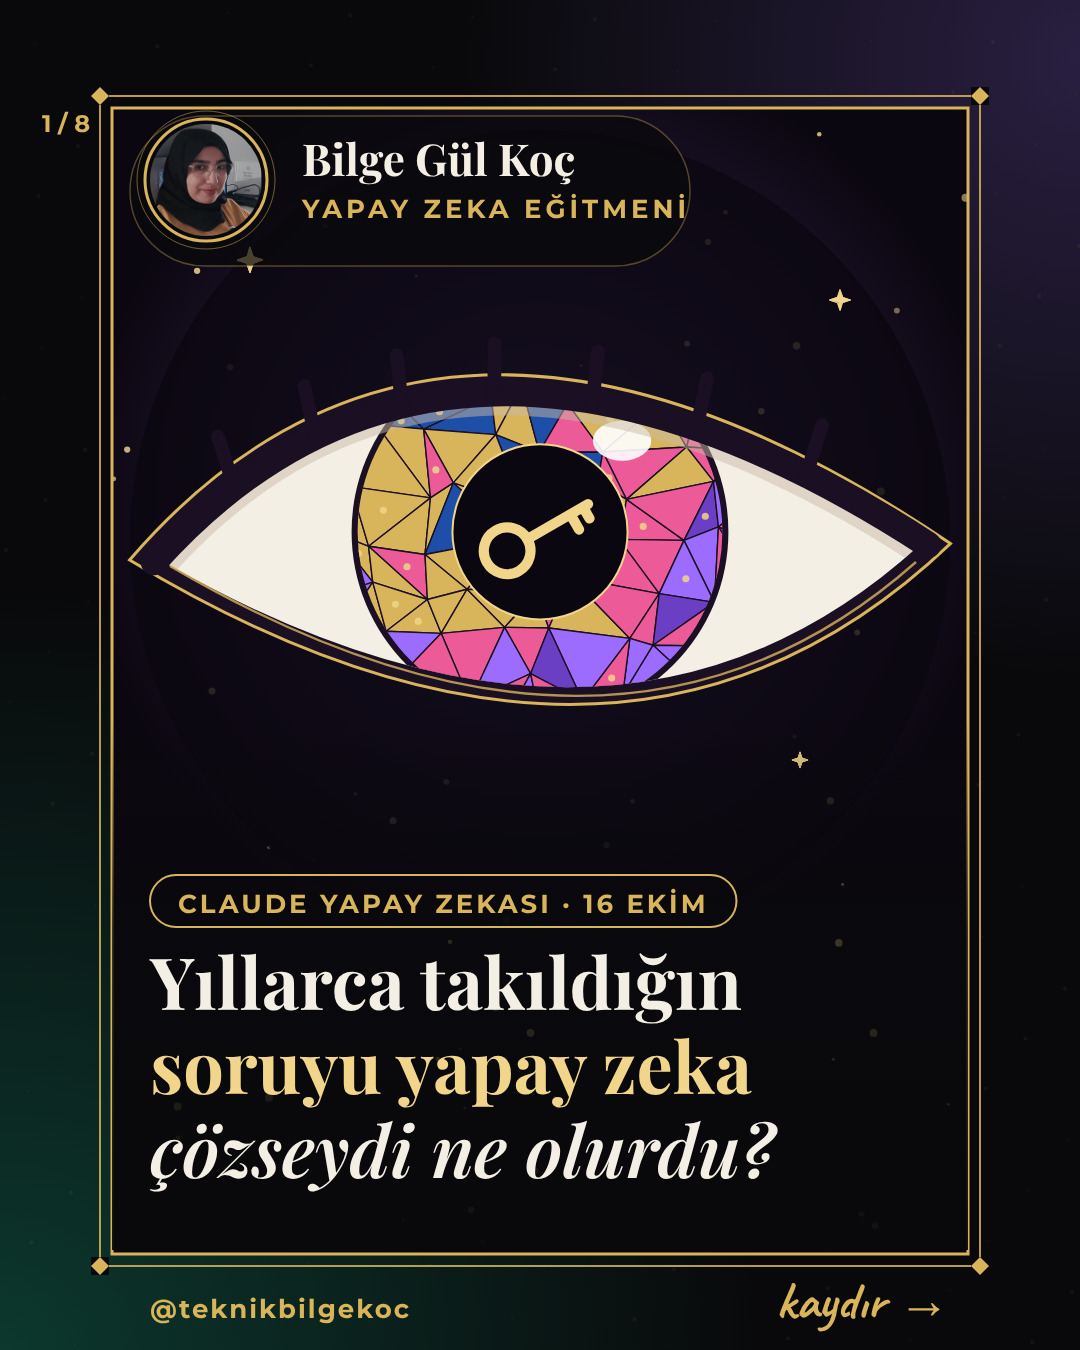
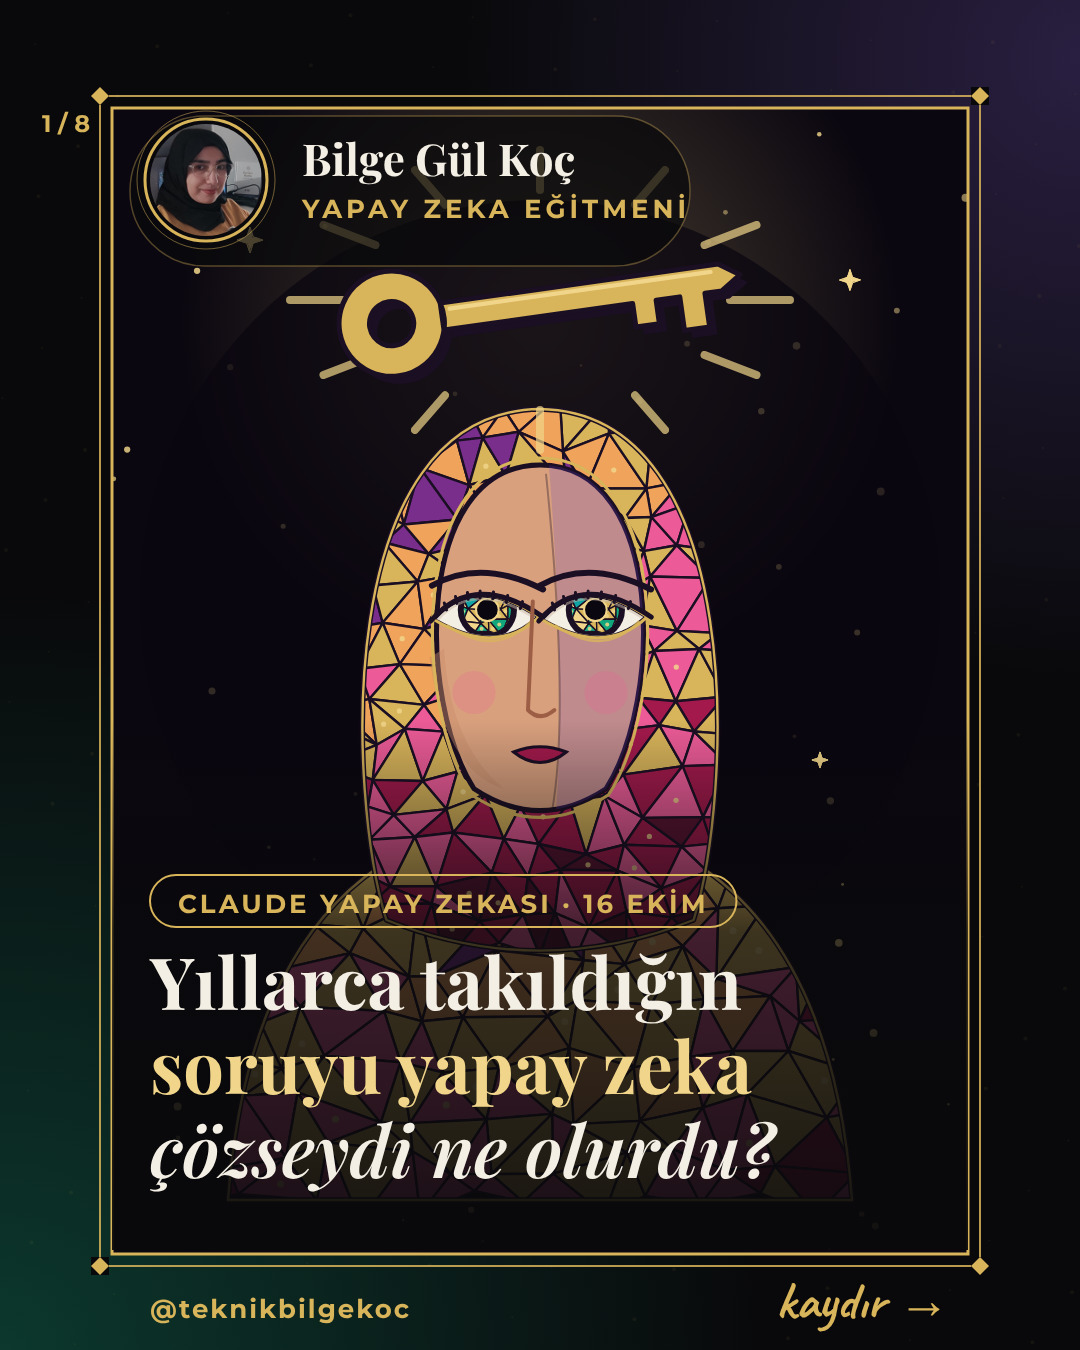
17 Ekim kapağı: tek göz yerine başörtülü yüz + anahtar; README'ye yasak simge kuralı
Claude-Session: https://claude.ai/code/session_01JFwWeH33W4M7iAanRYpxoH

diff --git a/2026-10-17/s1.js b/2026-10-17/s1.js
@@ -1,17 +1,20 @@
-// 17 Ekim 2026 kapak — metafor: dev Zeid gözü, gözbebeğinde parlayan minik altın anahtar (yıllardır kilitli soruyu "gören" yapay zeka); ametist iris, sakin gece zemin.
+// 17 Ekim 2026 kapak — metafor: başörtülü Zeid yüzü yukarı bakıyor, başının üstünde parlayan altın anahtar ("buldum!" anı); mozaik yakut örtü, sakin gece zemin.
+// Not (Bilge, 17 Ekim 2026): tek göz simgesi kullanılmaz. Açık kalkık avuç da (nazar/el simgesi çağrışımı) kullanılmadı.
 TOHUM = 20261017;
+const ANAHTAR = 'M-200 -62 a62 62 0 1 0 0.1 0 Z M-200 -26 a26 26 0 1 1 -0.1 0 Z M-140 -16 H190 L214 0 L190 16 H170 V56 H140 V16 H112 V44 H84 V16 H-140 Z';
 async function build() {
   await fontsReady(); paper('purple'); footer('1 / 8');
   sanatSahne(112, 108, 856, 1146, { cerceve: 'tam', duzen: 'gece', palet: 'ametist', merkez: [540, 500] }, () => {
-    glow(540, 500, 460, C.purple, 0.35);
-    el('circle', { cx: 540, cy: 540, r: 410, fill: '#0B0710', opacity: 0.8 });
-    zeidGoz(540, 560, 760, { iris: 'ametist', bakis: [0, 0.05], kas: false,
-      yansima: (x, y, r, gp) => {
-        const k = r / 60, G = g({ transform: `translate(${x} ${y}) scale(${k}) rotate(-30)` }, gp);
-        el('circle', { cx: -26, cy: 0, r: 16, fill: 'none', stroke: C.goldHi, 'stroke-width': 7 }, G);
-        el('path', { d: 'M-10 0 H38 M24 0 v12 M34 0 v9', fill: 'none', stroke: C.goldHi, 'stroke-width': 7, 'stroke-linecap': 'round' }, G);
-      } });
-    [[250, 260], [840, 300], [800, 760]].forEach(([x, y], i) => star(x, y, 0.8 - i * 0.15, C.goldHi));
+    glow(540, 320, 360, C.goldHi, 0.28);
+    el('circle', { cx: 540, cy: 600, r: 400, fill: '#0B0710', opacity: 0.75 });
+    zeidYuz(540, 640, 1.0, { bas: 'basortu', palet: 'yakut', ten: '#D9A07E', bakis: [0.1, -0.9], gulumse: true });
+    // ışık huzmeleri
+    for (let i = 0; i < 12; i++) { const a = i * Math.PI / 6; el('path', { d: `M${540 + 190 * Math.cos(a)} ${300 + 110 * Math.sin(a)} L${540 + 250 * Math.cos(a)} ${300 + 150 * Math.sin(a)}`, stroke: C.goldHi, 'stroke-width': 8, 'stroke-linecap': 'round', opacity: 0.7 }); }
+    const G = g({ transform: 'translate(560 300) rotate(-8) scale(0.85)' });
+    el('path', { d: ANAHTAR, fill: OUT, 'fill-rule': 'evenodd', transform: 'translate(8 10)' }, G);
+    el('path', { d: ANAHTAR, fill: C.gold, 'fill-rule': 'evenodd', stroke: OUT, 'stroke-width': 6, 'stroke-linejoin': 'round' }, G);
+    el('path', { d: 'M-130 -8 H180', stroke: C.goldHi, 'stroke-width': 5, 'stroke-linecap': 'round' }, G);
+    [[250, 240], [850, 280], [820, 760]].forEach(([x, y], i) => star(x, y, 0.8 - i * 0.15, C.goldHi));
   });
   perde(720, 1250);
   rozetZemin(); profil(150, 124, 112);

diff --git a/motor/README.md b/motor/README.md
@@ -7,6 +7,7 @@ Sorun: her gün aynı karikatür yüz (`sahneTek` + `kadin()`) çizildi; çeşit
 - METAFOR PROTOKOLÜ (her gün): (1) Haberin özünü tek cümleyle yaz. (2) Bu öz için en az 5 görsel metafor yaz (ör. güvenlik → izleyen dev göz, anahtar deliğinden bakan robot, mozaik kalkan; hafıza → gözleri kapalı hatırlayan yüz, kum saati, zarf taşıyan kuş). (3) "Başlığı kapatınca görsel konuyu anlatıyor mu?" testini geçen, en şaşırtıcı ve en somut olanı seç. (4) `kapak-gecmisi.md` son 7 satırla kıyasla: ana figür, düzen, çerçeve, palet ÜÇÜNDEN fazlası aynı olamaz; ana figür (göz/yüz/el/nesne/hayvan) art arda iki gün aynı olamaz. (5) Gerekirse yeni nesneyi s1.js içinde SVG yoluyla çiz ve `mozaik()` ile doldur (yeni metafor serbest; araç listesi sınır değildir).
 - KAPAK SADELİĞİ (Bilge, 15 Ekim 2026; 15 Ekim Grok kapağı karışık bulundu: mozaik zemin + mozaik telefon): (1) Zemin ve figür aynı anda mozaik olamaz. Figür `mozaik()` ile dolduruluyorsa `sanatSahne` zemini sakin olur (düz koyu ya da tek ışıma; `kaleydoskop()` halkası çizme ya da opaklığı en çok 0.08). (2) Figür zeminden belirgin ayrılır: kalın koyu kontur + figürün arkasında koyu yuvarlak alan. (3) Figür üzerinde ikinci bir sembol (madalyon, robot yüzü) yok; tek figür, tek fikir. (4) Ses dalgası, ışın gibi süsler en çok 2 renk. (5) TEST: kapağı küçültüp telefon ekranında görüntüle (ör. 270 px genişlik); figür ne olduğu hemen seçilmiyorsa sadeleştir.
 - GERÇEK ÜRÜN GÖRSELİ (Bilge onayı, 16 Ekim 2026): Haber somut bir ürünle (cihaz, uygulama ekranı) ilgiliyse "NE DEĞİŞTİ?" ya da "NASIL ÇALIŞIYOR?" slaytına ürünün gerçek görseli konur; okur ürünü gözünde canlandırabilmeli. KURALLAR: (1) Yalnızca şirketin RESMİ duyuru/basın sayfasından ya da basın kitinden (ör. aboutamazon.com, anthropic.com/news, openai.com, blog.google). Haber sitesi (TechCrunch, Getty vb.), sosyal medya, Google Görseller YASAK. (2) İnsan yüzü içeren görsel kullanılmaz; yalnızca ürün ya da ekran. (3) Kapakta KULLANILMAZ; kapak her zaman özgün çizimdir. Karusel başına en çok 2 slaytta. (4) `lib-koyu.js` `urunGorsel(href, x, y, w, h, 'Görsel: <Şirket>', { kirp: 'xMidYMid meet' })` ile, açık zeminli çerçevede; kaynak yazısı ZORUNLU. Görseli `convert` ile ürüne yakın kırp, motor/ klasörüne `urun.jpg` olarak koy, günün klasörüne de kopyala. (5) Görselin indirildiği adresi rapor.md'ye yaz. (6) Uygun resmi görsel yoksa ürünü resmi fotoğrafa bakarak kendi stilimizle çiz; asla başka kaynaktan alma. Örnek: `../2026-10-16-deneme/s3.js`.
+- YASAK SİMGELER (Bilge, 17 Ekim 2026): TEK GÖZ simgesi (tek başına dev göz, `zeidGoz()` ana figür olarak) KULLANILMAZ; İslami çevrelerde şeytanla (deccal) eşleştiriliyor. Göz yalnızca bir yüzün içinde, iki göz olarak çizilir. Aynı hassasiyetle, kalkık açık avuç (nazar/el simgesi çağrışımı) da ana figür yapılmaz.
 - Kompozisyon: tek ana figür, çerçevenin üst %60'ını doldurur (y≈150–820), altta perde + etiket + 3 satır başlık (mevcut kural). Rozetin arkasına `rozetZemin()` koy. İnsan figürü kullanılırsa kadın öncelikli ve çeşitli (başörtülü/saçlı/yaşlı/genç, farklı ten tonu `ten`), ama her gün insan zorunlu DEĞİL.
 - Örnekler: `../2026-10-14-kapak-deneme/` (k1 göz: güvenlik, k2 yüz: hafıza, k3 el + telefon: sesli asistan). Kopyala, değiştirme.
 - Karusel kurgusu: `karusel-stratejisi.md` (8 slaytlık haber iskeleti, Instagram kuralları ve kaynaklar).

diff --git a/2026-10-17/rapor.md b/2026-10-17/rapor.md
@@ -7,5 +7,5 @@
 - Elenenler: OpenAI'ın yeni "kontrolden çıkan yapay zeka" vakaları (Fortune, 16 Ekim; birincil sayfa doğrulanamadı) https://fortune.com/2026/10/16/openai-discloses-four-more-rogue-incidents-involving-financial-medical-and-government-data/ ; Anthropic Japonya satış temsilcisinin Claude ile günü (müşteri hikâyesi, haber değeri düşük) https://claude.com/resources/articles/how-an-anthropic-japan-business-development-representative-runs-his-day ; Claude Code ekibinin kod incelemesi (yazılımcıya yönelik) https://claude.dev/blog/solving-code-review-at-anthropic/
 - Doğrulanamayan / dikkat: Sonuç Anthropic'in kendi açıklaması (bağımsız bir doğrulama yazısı bulunamadı; yöntem ve kod herkese açık). "25 yıl" yaklaşık (standart 2000, sayılar 1997–98). Kullanılan sürüm herkese açık değil.
 - Okur kontrolü iki tur yapıldı, işaretlenen satırlar düzeltildi. Gerçek ürün görseli yok (ürün haberi değil).
-- Kapak: dev Zeid gözü, gözbebeğinde altın anahtar; ametist palet, gece zemin. kapak-gecmisi.md satırı yayından sonra eklenecek.
+- Kapak: başörtülü Zeid yüzü, başının üstünde parlayan altın anahtar; yakut örtü, gece zemin. (İlk kapaktaki tek göz, Bilge'nin uyarısıyla değiştirildi: tek göz simgesi kullanılmaz.) kapak-gecmisi.md satırı yayından sonra eklenecek.
 - Instagram'a atmak için: aciklama.txt + 8 link sırayla, hesap 17841417034790076.
